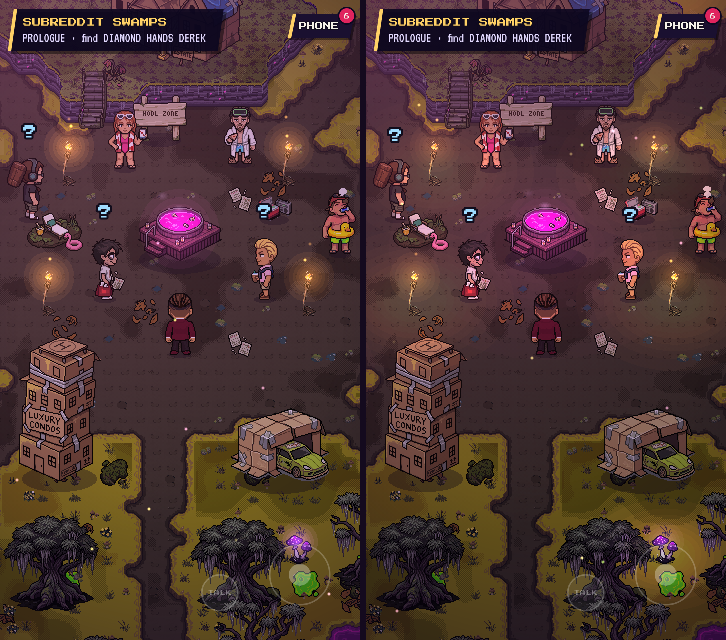
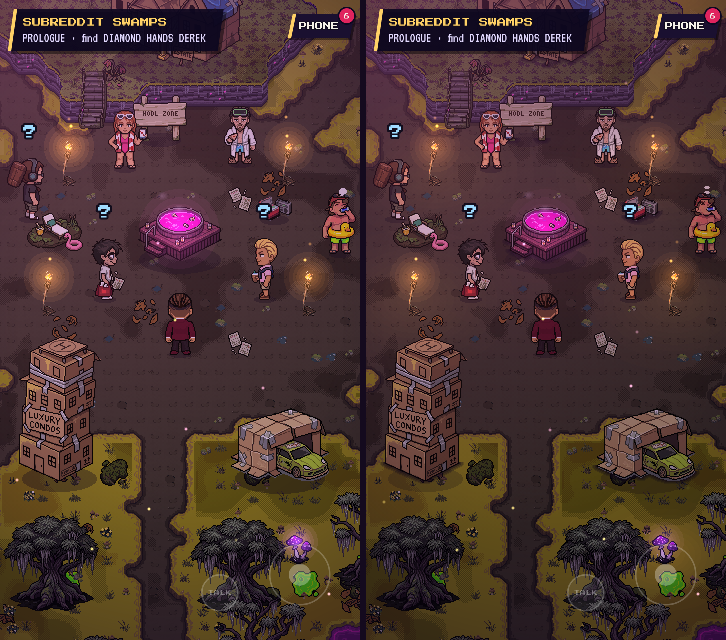
Make the light map the default, screen its pools, and draw it on the GPU (v0.29.0)
The light map is a render texture now: drawn on the GPU under WebGL, so no
picture is uploaded each frame, and on a canvas under Canvas. Pools are
screened instead of added, so overlapping lights (the basement's racks and
battle station) no longer wash out to white; the basement's dark goes deeper
between its lights. `&lightmap=0` brings back the flat grade to compare.
The smoke test checks the plaza's pools and contact shadows at night.

Claude-Session: https://claude.ai/code/session_01NvXFNukPmyTfU8tvNeW57i

diff --git a/src/ui/atmosphere.js b/src/ui/atmosphere.js
@@ -12,12 +12,14 @@
 // a multiply at full alpha, light is additive, and each glow color gets its
 // own texture (Canvas can't tint).
 //
-// The light map (a prototype, `lightmap`): instead of one flat grade, the
-// world is multiplied by a picture of the light, redrawn each frame at the
-// art's resolution: the grade's color everywhere, with a pool of each prop's
-// light added in around it, so the ground and anyone standing near a torch
-// show their own colors again. The glows stay on top, dimmer, as the bright
-// core of each light.
+// The light map (`lightmap`): instead of one flat grade, the world is
+// multiplied by a picture of the light, redrawn each frame at the art's
+// resolution: the grade's color everywhere, with a pool of each prop's light
+// screened in around it, so the ground and anyone standing near a torch show
+// their own colors again. Screened, not added, so pools that overlap brighten
+// without washing out to white. The glows stay on top, dimmer, as the bright
+// core of each light. It's a render texture: drawn on the GPU under WebGL
+// (no picture uploaded each frame), on a canvas under Canvas.
 //
 // Depths: shadows and mist lie on the ground under everything standing; the
 // grade, haze, fog and vignette sit over the world; the sun, glows, motes and
@@ -190,11 +192,11 @@ function splashTexture(scene) {
   });
 }
 
-/** A pool of light on the light map, drawn at art resolution (1 px per art pixel): rx across, stepped rings. */
+/** A pool of light on the light map, drawn at art resolution (1 px per art pixel): rx across, stepped rings. Returns its key. */
 function poolTexture(scene, rx, color) {
   rx = Math.max(2, Math.round(rx / PX));
   const ry = Math.max(2, Math.round(rx * LIGHTMAP.squash));
-  const key = bake(scene, `fx_pool_${rx}_${hex(color)}`, rx * 2, ry * 2, (ctx, w, h) => {
+  return bake(scene, `fx_pool_${rx}_${hex(color)}`, rx * 2, ry * 2, (ctx, w, h) => {
     for (let y = 0; y < h; y++) {
       for (let x = 0; x < w; x++) {
         const d = Math.hypot((x + 0.5 - rx) / rx, (y + 0.5 - ry) / ry);
@@ -204,7 +206,6 @@ function poolTexture(scene, rx, color) {
       }
     }
   });
-  return scene.textures.get(key).getSourceImage();
 }
 
 function vignetteTexture(scene, color) {
@@ -229,7 +230,7 @@ export class Atmosphere {
    * @param {object} opts  { ground: the ground's depth, over: the depth just over the world, terrain,
    *                         hour, weather: the kind it is when the scene starts }
    */
-  constructor(scene, look, { ground, over, terrain, hour = 12, weather = 'clear', lightmap = false }) {
+  constructor(scene, look, { ground, over, terrain, hour = 12, weather = 'clear', lightmap = true }) {
     this.scene = scene;
     this.look = look;
     this.ground = ground;
@@ -317,8 +318,7 @@ export class Atmosphere {
       // The light map takes the grade's place: a canvas at art resolution, shown at full size.
       const w = GAME_W / PX;
       const h = GAME_H / PX;
-      this.mapTex = scene.textures.exists('fx_lightmap') ? scene.textures.get('fx_lightmap') : scene.textures.createCanvas('fx_lightmap', w, h);
-      this.map = pin(scene.add.image(0, 0, 'fx_lightmap'), over).setScale(PX).setBlendMode(Phaser.BlendModes.MULTIPLY);
+      this.lightRT = pin(scene.add.renderTexture(0, 0, w, h), over).setScale(PX).setBlendMode(Phaser.BlendModes.MULTIPLY);
       this.grade.setVisible(false);
     }
     this.haze = pin(scene.add.rectangle(0, 0, GAME_W, GAME_H, 0xffffff, 0), over + 0.1);
@@ -421,30 +421,22 @@ export class Atmosphere {
     this.updateLightning(time);
   }
 
-  /** The light map: the grade's color, with each light in view adding its pool. */
+  /** The light map: the grade's color, with each light in view screening its pool in. */
   drawLightmap(L, view) {
-    const ctx = this.mapTex.getContext();
-    const { width: w, height: h } = this.mapTex;
-    ctx.globalCompositeOperation = 'source-over';
-    ctx.globalAlpha = 1;
     // The darker the hour (the stronger its lights), the darker the dark between them.
     const dark = (this.look.lightmapDarken ?? LIGHTMAP.darken) * Math.min(1, Math.max(0, (L.lights - 0.6) / 0.9));
-    ctx.fillStyle = `#${hex(blendColor(L.grade, 0x000000, dark))}`;
-    ctx.fillRect(0, 0, w, h);
-    ctx.globalCompositeOperation = 'lighter';
+    const rt = this.lightRT;
+    rt.fill(blendColor(L.grade, 0x000000, dark), 1);
+    const stamp = { originX: 0.5, originY: 0.5, blendMode: Phaser.BlendModes.SCREEN, alpha: 1 };
     for (const p of this.pools) {
       if (!p.a.owner.visible || p.a.owner.alpha <= 0.3) continue;
       const sx = p.x - view.x;
       const sy = p.y - view.y;
       if (sx < -p.reach || sx > GAME_W + p.reach || sy < -p.reach || sy > GAME_H + p.reach) continue;
-      const strength = Math.min(1, L.lights * 0.9 * p.a.glow * p.a.wobble);
-      if (strength <= 0.02) continue;
-      ctx.globalAlpha = strength;
-      ctx.drawImage(p.pool, Math.round(sx / PX - p.pool.width / 2), Math.round(sy / PX - p.pool.height / 2));
+      stamp.alpha = Math.min(1, L.lights * 0.9 * p.a.glow * p.a.wobble);
+      if (stamp.alpha <= 0.02) continue;
+      rt.stamp(p.pool, undefined, Math.round(sx / PX), Math.round(sy / PX), stamp);
     }
-    ctx.globalCompositeOperation = 'source-over';
-    ctx.globalAlpha = 1;
-    this.mapTex.refresh();
   }
 
   /** Redraw the sun's light when it's changed enough to see. */

diff --git a/src/data/assets.js b/src/data/assets.js
@@ -60,7 +60,8 @@ export const FIELD_SHEETS = [
 //           its width, or { w, x, y } to move it from the feet; `contact: true`
 //           (or { rise, reach }) adds a contact shadow traced from the art's
 //           own base, for a base that isn't flat across (a box drawn at an angle)
-//   glow    lights: [{ x, y (from the feet), r, color, alpha?, flicker? | pulse? }]
+//   glow    lights: [{ x, y (from the feet), r, color, alpha?, flicker? | pulse?, reach? }]
+//           (`reach`: how far its pool spreads on the light map; 2.6 × r if not given)
 //   puffs   { x, y, kind: 'steam' | 'ember', every (ms), spread? }, rising off it
 //   sway    how far its top leans in a strong wind, px (ui/motion.js); trees, reeds, flames
 export const PROP_IMAGES = [
@@ -110,7 +111,7 @@ export const PROP_IMAGES = [
   { key: 'prop_rack', path: 'assets/props/prop_rack.png', name: 'SERVER RACK', block: { w: 70, h: 26 }, glow: [{ x: 0, y: -90, r: 56, color: 0x60ffb0, alpha: 0.6, flicker: true }] },
   { key: 'prop_rack_b', path: 'assets/props/prop_rack_b.png', name: 'SERVER RACK 2', block: { w: 76, h: 26 }, glow: [{ x: 0, y: -90, r: 56, color: 0x60c0ff, alpha: 0.6, flicker: true }] },
   { key: 'prop_rack_c', path: 'assets/props/prop_rack_c.png', name: 'SERVER RACK 3', block: { w: 76, h: 26 }, glow: [{ x: 0, y: -90, r: 56, color: 0xff60e0, alpha: 0.6, flicker: true }] },
-  { key: 'prop_battlestation', path: 'assets/props/prop_battlestation.png', name: 'BATTLE STATION', block: { w: 200, h: 50 }, glow: [{ x: -10, y: -105, r: 120, color: 0x7090ff, flicker: true }] },
+  { key: 'prop_battlestation', path: 'assets/props/prop_battlestation.png', name: 'BATTLE STATION', block: { w: 200, h: 50 }, glow: [{ x: -10, y: -105, r: 120, reach: 200, color: 0x7090ff, flicker: true }] },
   { key: 'prop_fridge', path: 'assets/props/prop_fridge.png', name: 'MINI FRIDGE', block: { w: 36, h: 18 }, glow: [{ x: 5, y: -28, r: 44, color: 0xff40d0, alpha: 0.7 }] },
   { key: 'prop_mattress', path: 'assets/props/prop_mattress.png', name: 'MATTRESS', block: { w: 100, h: 36 } },
   // The trading floor: a marble-and-glass office (tools/region-art/wall.py draws its wall).

diff --git a/src/data/looks.js b/src/data/looks.js
@@ -5,14 +5,17 @@
 // strong they are.
 //
 // The light (each part optional):
-//   grade      a color the whole world is multiplied by (white = untouched).
-//              UI and overhead bubbles sit above it.
+//   grade      a color the whole world is multiplied by (white = untouched),
+//              except where props' lights spread their pools over it (the
+//              light map, ui/atmosphere.js). UI and overhead bubbles sit above it.
+//              `lightmapDarken`: how much darker it gets between lights at the
+//              darkest hour (0.3 if not given), since the lights carry the scene.
 //   sun        { color, alpha, x }: a low sun's light washing in from the top
 //              of the screen, x 0 from the west (left), 1 from the east.
 //   haze       { color, alpha }: a flat wash over the world.
 //   vignette   how dark the screen's edges get (0..1), in `vignetteColor`.
 //   shadows    how dark shadows on the ground are (0..1).
-//   lights     how strong props' glows are (0 turns them off).
+//   lights     how strong props' glows and their pools of light are (0 turns them off).
 //   sky        { top, bottom }: the sky past a drop (a `vista`), top of the screen to the horizon.
 //   fireflies, spores, mist   how much of each (0..1): fireflies and spores
 //              drift in view (`fireflyColors`, `sporeColors`, `motes` of each),
@@ -104,7 +107,6 @@ export const LOOKS = {
   day: { shadows: 0.3, lights: 0.35 },
 
   // Derek's basement: a dark room lit by screens, server lights and his neon.
-  // `lightmapDarken`: with the light map (a prototype), how much darker the room gets where its lights don't reach.
   basement: { grade: 0x9a90b8, vignette: 0.55, vignetteColor: 0x06040c, shadows: 0.4, lights: 1.1, lightmapDarken: 0.75 },
 
   // The trading floor: bright, clean, a little cool.

diff --git a/src/systems/debug.js b/src/systems/debug.js
@@ -22,7 +22,7 @@
 //   &edit=start          open the map editor on that region's map (CLAUDE.md §6.11);
 //                        progress stays in memory while you playtest
 //   &canvas=1            use the Canvas renderer instead of WebGL (fast without a GPU)
-//   &lightmap=1          prototype: light pools spread from props' lights (ui/atmosphere.js)
+//   &lightmap=0          the old flat grade instead of the light map (ui/atmosphere.js), to compare
 //
 // Example: index.html?debug=1&battle=derek&perfect=1&seed=123&fast=1
 
@@ -59,7 +59,7 @@ export const DEBUG = Object.freeze({
   found: list('found'),
   title: flag('title'),
   canvas: flag('canvas'),
-  lightmap: flag('lightmap'),
+  noLightmap: enabled && params.get('lightmap') === '0',
   edit: enabled ? params.get('edit') : null,
   look: enabled ? params.get('look') : null,
   time: enabled ? params.get('time') : null, // '18:30': the clock stands still at this hour

diff --git a/src/scenes/RegionScene.js b/src/scenes/RegionScene.js
@@ -184,7 +184,7 @@ export default class RegionScene extends Phaser.Scene {
     this.clockSavedAt = 0;
     this.atmo = new Atmosphere(this, this.look, {
       ground: -WORLD_DEPTH * 2, over: OVER_WORLD, terrain: this.terrain, hour: this.hour(), weather: this.weatherNow(),
-      lightmap: DEBUG.lightmap,
+      lightmap: !DEBUG.noLightmap,
     });
     // The view past a drop at the map's top edge (ui/vista.js), if the look has one and the map has a drop.
     this.vista = this.look.vista && this.terrain.voids.size

diff --git a/src/version.js b/src/version.js
@@ -3,7 +3,7 @@
 // for fixes. Since it loads with the rest of the game code, a stale version
 // on screen means the browser is still running a cached copy.
 
-export const VERSION = '0.28.0';
+export const VERSION = '0.29.0';
 export const RELEASED = '2026-10-19';
 
 const MONTHS = ['Jan', 'Feb', 'Mar', 'Apr', 'May', 'Jun', 'Jul', 'Aug', 'Sep', 'Oct', 'Nov', 'Dec'];

diff --git a/CLAUDE.md b/CLAUDE.md
@@ -235,7 +235,7 @@ Content these need: question banks for the cat quiz and lore quiz, and pickup li
   - **The swamp's top edge** is a cliff now: the reed border there gave way to a meadow lookout (tall trees cleared from it), and past the edge is the map look's **vista** (`ui/vista.js`, `vista` in `data/looks.js`): the sky (a gradient that follows the clock, stars at night, a low sun's disc at dawn and sunset), then layers of the land beyond, each moving slower than the ground the farther away it is (parallax): the **financial district** the stonk bros can't afford on the horizon, misty hills, and the swamp's own cypress treeline. Each is a silhouette drawn once and recolored as the light changes, fading toward the sky's color with distance, with mist at its feet; weather washes over it too. The city's windows light up at night, drawn over the dusk's grade (clipped to the drop, like props' glows) so they stay warm and bright. The camera can look `extendTop` px past the map's top.
   - A crater would use the same drop, with its own layers for what's at the bottom (water, say): that view isn't built yet, since the swamp's vista is laid out for a top edge.
 - **Atmosphere, time of day and weather (built):** each map's content names a **look** (`src/data/looks.js`), drawn over the world by `ui/atmosphere.js` from numbers worked out in `systems/sky.js` (pure, unit-tested in `tools/sky.test.mjs`). It's all procedural and on the 2 px grid, and looks the same on Canvas and WebGL.
-  - **Light:** one color the whole world is multiplied by (the grade), a low sun's warm light washing in from the top of the screen (from the west in the evening, the east in the morning), haze, darkened screen edges, and **shadows** on the ground under everyone who walks and under props without a baked ground plate. Props bring their own **glows** (flickering tiki flames, the pulsing hot tub, Derek's window, mushrooms, crystals and fungus, the tower's lights, the basement's servers and neon) and **puffs** (hot-tub steam, torch embers): `shadow`, `glow` and `puffs` on their entry in `PROP_IMAGES`, so the editor and every region get them. UI and overhead bubbles stay above it all.
+  - **Light:** the world is multiplied by a **light map** redrawn every frame at the art's resolution: the hour's color (the grade) everywhere, with a **pool of light** around each of the props' lights, so torches spread warm light over the ground and anyone standing near them, and the hot tub throws pink across the plaza. The darker the hour, the darker the dark between lights (`lightmapDarken`, 0.3 outdoors at night, 0.75 in the basement), since the lights carry the scene; by day the pools vanish into the daylight. Pools are screened together, not added, so overlapping lights brighten without washing out to white. A pool lies flat (3/4 view), sits between the light and the prop's feet, and spreads 2.6× its glow's radius (`reach` on a glow to change it). It's a render texture, drawn on the GPU under WebGL (nothing uploaded per frame; about 0.5 ms of a frame's CPU in software WebGL) and on a canvas under Canvas. On top: a low sun's warm light washing in from the top of the screen (from the west in the evening, the east in the morning), haze, darkened screen edges, and **shadows** on the ground under everyone who walks and under props without a baked ground plate. Props drawn at an angle (the cardboard buildings, the hot tub, the cooler, the sign's posts) also get a **contact shadow traced from their own art**: where the base meets the ground, column by column, dark at the edge and fading out, so a diamond-shaped footprint sits on the ground instead of floating over a centered ellipse (`shadow: { w, contact: true | { rise, reach } }`). Props bring their own **glows** (flickering tiki flames, the pulsing hot tub, Derek's window, mushrooms, crystals and fungus, the tower's lights, the basement's servers and neon) and **puffs** (hot-tub steam, torch embers): `shadow`, `glow` and `puffs` on their entry in `PROP_IMAGES`, so the editor and every region get them. UI and overhead bubbles stay above it all.
   - **Air:** fireflies (after sunset) and spores (in fog) drift in view, and mist banks lie low over the water (thickest at dawn).
   - **The clock:** outdoors, a look has `phases`, lights at hours of the day blended in between: night, dawn, day, **golden hour** (17:00–18:00, a warm grade and orange light flooding in from the west), dusk (violet, the neon coming on), night. Game time runs only while $cott is in a region (not on the overworld, in a fight, or with the phone open): a whole day takes **24 real minutes** (`DAY`), and a new game starts at 5 PM, so the first walk is at golden hour. Saved. The smartphone's status bar shows it.
   - **Weather:** clear, **fog** (white: a pale wash, fog banks drifting over everything, soft shadows), **rain** (grey-blue, streaks, splashes on the ground) and **storm** (heavier rain, now and then a double flash of lightning). Each lasts 2–5 game hours, then another rolls by its odds (clear 6, fog 3, rain 2, storm 1) and fades in over 8 seconds. Saved, so a door into the basement and back doesn't change it. Rooms have one fixed light and no weather.
@@ -245,7 +245,7 @@ Content these need: question banks for the cat quiz and lore quiz, and pickup li
   - **See-through trees:** a tree or building (any prop 110 px or taller) fades to 40% while $cott walks behind it, so he never vanishes in a grove: it counts when its feet are below his and a point on his body lands on one of its painted pixels, not just inside its box (`ui/seeThrough.js`). Its glow stays on.
   - **Foreground:** dark, out-of-focus silhouettes in front of everything, drawn in 4 px pixels (twice the world's) so they read as closer and softer, and tinted by the time of day (`ui/foreground.js`, the look's `foreground`). Cypress branches with long moss hang in at the top of the screen near some trees, and reed tufts rise at the bottom along some shores. They slide sideways faster than the ground (`depth` 1.4) and stay in those bands, fading in only while the camera's near what they're anchored to, so they never cover $cott.
   - The phone's SETTINGS sets both by hand, with sliders (§6.7).
-  - Debug: `&time=18:30` stops the clock at that hour, `&weather=fog|rain|storm|clear`, `&look=<id>` tries another look (`none` turns it off).
+  - Debug: `&time=18:30` stops the clock at that hour, `&weather=fog|rain|storm|clear`, `&look=<id>` tries another look (`none` turns it off), `&lightmap=0` goes back to the flat grade to compare.
 - **Secrets (built):** a layout can hide things until $cott finds them (`systems/secrets.js`): a prop or exit tagged `secret: '<id>'` only exists once that secret is found, and a prop tagged `cover: '<id>'` stands there until then. The map's content file says what each secret is (`secrets: { <id>: { ssid, app, found } }`); where it is comes from the layout (the middle of what's tagged), so the editor can move it. Found secrets are saved (`<region>:<id>`), and a cleared region counts as having found them all, so a rematch never hides the villain again. The swamp's first is `derek_wifi`.
 - Data: each region is two files (§6.11): `src/data/maps/<region>.layout.js` says where things are (the ground as a terrain grid, the spawn, exits, boardwalks, props, and the spot of every NPC and rope) and is written by the map editor; `src/data/maps/<region>.js` says what they are (names, lines, challenges, fights, classic posts, gifts, rope prices), keyed by id.
 - **Scouting challenges (built):** minor characters in a region can hold a `challenge`. Win it and they spill intel on the region's villain: a weakness, a resistance, or soft spots (§5.3). Intel is saved, and in the fight those tags start filled in instead of "???", with an opening line saying so. Three kinds so far: **beat** (taps on the battle's timing bar, each at a set rating or better), **quiz** (multiple choice; the first listed answer is right, shown shuffled), and **trade** ($cott's day trade, §6.8). Losing costs nothing; try again. Data lives on the NPC in `src/data/maps/<region>.js`; logic is in `systems/intel.js`.
@@ -386,7 +386,7 @@ For the walkable regions (§6.6). Characters, props, and the swamp's ground tile
 - **Idle actions** (§6.6): PixelLab `animate_image` on the character's own idle frame at 48×72 art px (cut back down from their sheet), 8 frames, with the **same frame as `last_frame`** so the clip ends on the idle pose, and an action that describes the motion and says the feet stay planted. Walkers need one per view they stand in (side-on NPCs need the left row). Picks are strips in `tools/region-art/idles/<name>_<view>.png` (PixelLab's frame 0, then the clip); `tools/region-art/idle.py <name>` lines them up on the sheet's idle cell and writes `assets/field/field_<name>_idle.png`. Check every pick: the model sometimes drops sunglasses or turns a prop into something else, and a re-roll asking to keep the detail fixes it.
 - **PixelLab sometimes swaps a tileset's labels:** the art is right but its two terrains are tagged the wrong way round, which paints land as water. `tileset.py` compares each pair's shared terrain (the base) against the other pairs and flips a swapped pair, saying so.
 - **A new region's ground** needs a tileset like the swamp's: PixelLab top-down Wang tilesets for each pair of terrains that meet (each through a shared base terrain, like grass), plus decals, in `tools/region-art/<set>/` with an `art.json`; then `tileset.py <set>`.
-- **Props:** anything tall (trees, signs, tents, buildings) as separate transparent PNGs, placed by their bottom center. They sort by depth with the characters, so $cott walks behind a canopy and in front of a trunk. To offer one in the editor, list it in `PROP_IMAGES` (`src/data/assets.js`) with a name and a footprint.
+- **Props:** anything tall (trees, signs, tents, buildings) as separate transparent PNGs, placed by their bottom center. A prop drawn at an angle, whose base isn't flat across the bottom of the image, wants `contact: true` on its `shadow` (§6.6); one with an overhang low to the ground (a sign's board) sets `rise` so only its feet are traced. They sort by depth with the characters, so $cott walks behind a canopy and in front of a trunk. To offer one in the editor, list it in `PROP_IMAGES` (`src/data/assets.js`) with a name and a footprint.
 - **Where $cott can walk** comes from the terrain (water and reeds block), boardwalks and exits (always walkable), and the footprints of props, NPCs, and closed ropes (`systems/mapcheck.js`).
 
 ## 9. Content and data conventions
@@ -456,6 +456,7 @@ For the walkable regions (§6.6). Characters, props, and the swamp's ground tile
 - **The swamp's ground got variety, and things move** (§6.6): noise patches and themed litter break up the big flat fields (the swamp's biggest visual problem after the lighting), trees and reeds sway with the weather's wind, and anyone standing still breathes. Motion is baked into extra frames on the art's pixel grid (row shifts, a one-pixel dip) rather than scaled or skewed, so it stays crisp on Canvas and WebGL.
 - **Walking is paced by distance, with an 8-frame cycle** (§6.6, §8.4): $cott's 4-frame walk at a fixed 8 fps read as marching (4 steps a second, knee lifts, feet sliding three times their stride, and once the feet were pinned to the ground a head that bounced every frame). Now his steps follow how far he moves, he walks a little slower (260 px/s, about 2.9 steps a second), and his sheet is PixelLab's `walking-8-frames` with a designed one-pixel bob. Picked over re-registering the old frames, which can't fix march poses. The walk comes from its `skeleton-v3` mode, which poses the character's own art: the plain template redrew his side view about 15% smaller (a head 16 art px wide instead of 20), which showed next to everyone else.
 - **$cott's field sprite matches the cast** (§8.4): his first was drawn about 5.5–6 heads tall with the smallest head of anyone (20 art px against 24–34), and its size changed between views, which stood out next to every NPC. He was redrawn chunkier from his battle art with the cast's front frames as the proportion reference, the back view drawn to match the front exactly rather than rotated (rotation stretched it 5 px taller), and the walk rebuilt on it.
+- **Light spreads from its sources, and props sit on the ground** (§6.6): the flat grade became a light map, the hour's color with a pool of light around every prop's light, so a torch lights the ground and people near it instead of floating a halo over an evenly dark scene. Picked from a side-by-side of the plaza, Derek's ridge and his basement at night, dusk and golden hour (`docs/art/lightmap/`). It's drawn procedurally into a render texture rather than with Phaser's WebGL-only lights, so Canvas and phones match. In the same pass, props drawn at an angle got contact shadows traced from their own art: the cardboard buildings had looked like they were floating over ellipses hidden under them (`docs/art/shadows/`). Next: shadows that point away from the sun and from nearby lights.
 - **Trees go see-through and the foreground has depth** (§6.6): a prop in front of $cott fades when his body is on its painted pixels, and dark branches and reeds drift across the top and bottom of the screen faster than the ground. The foreground moves sideways only and stays in its bands: full parallax sent branches sweeping down over $cott whenever the camera moved north.
 - **Map edges are cliffs with a view** (§6.6): a drop terrain cuts the ground away, and the land beyond is parallax layers of procedural silhouettes recolored by the clock, instead of a hard reed border. The swamp's top edge looks out on a city skyline. Silhouettes are drawn in code rather than generated, so they tile sideways and take any color the sky needs.
 - **The hub gets a cardboard neighborhood** (§6.6): people standing around in the woods looked odd, so the hot-tub plaza is ringed with fake-luxury buildings made of boxes and duct tape, broke stonk bros trying to look rich. They're ordinary props (`prop_cb_*`), so the map editor can move or reuse them.
